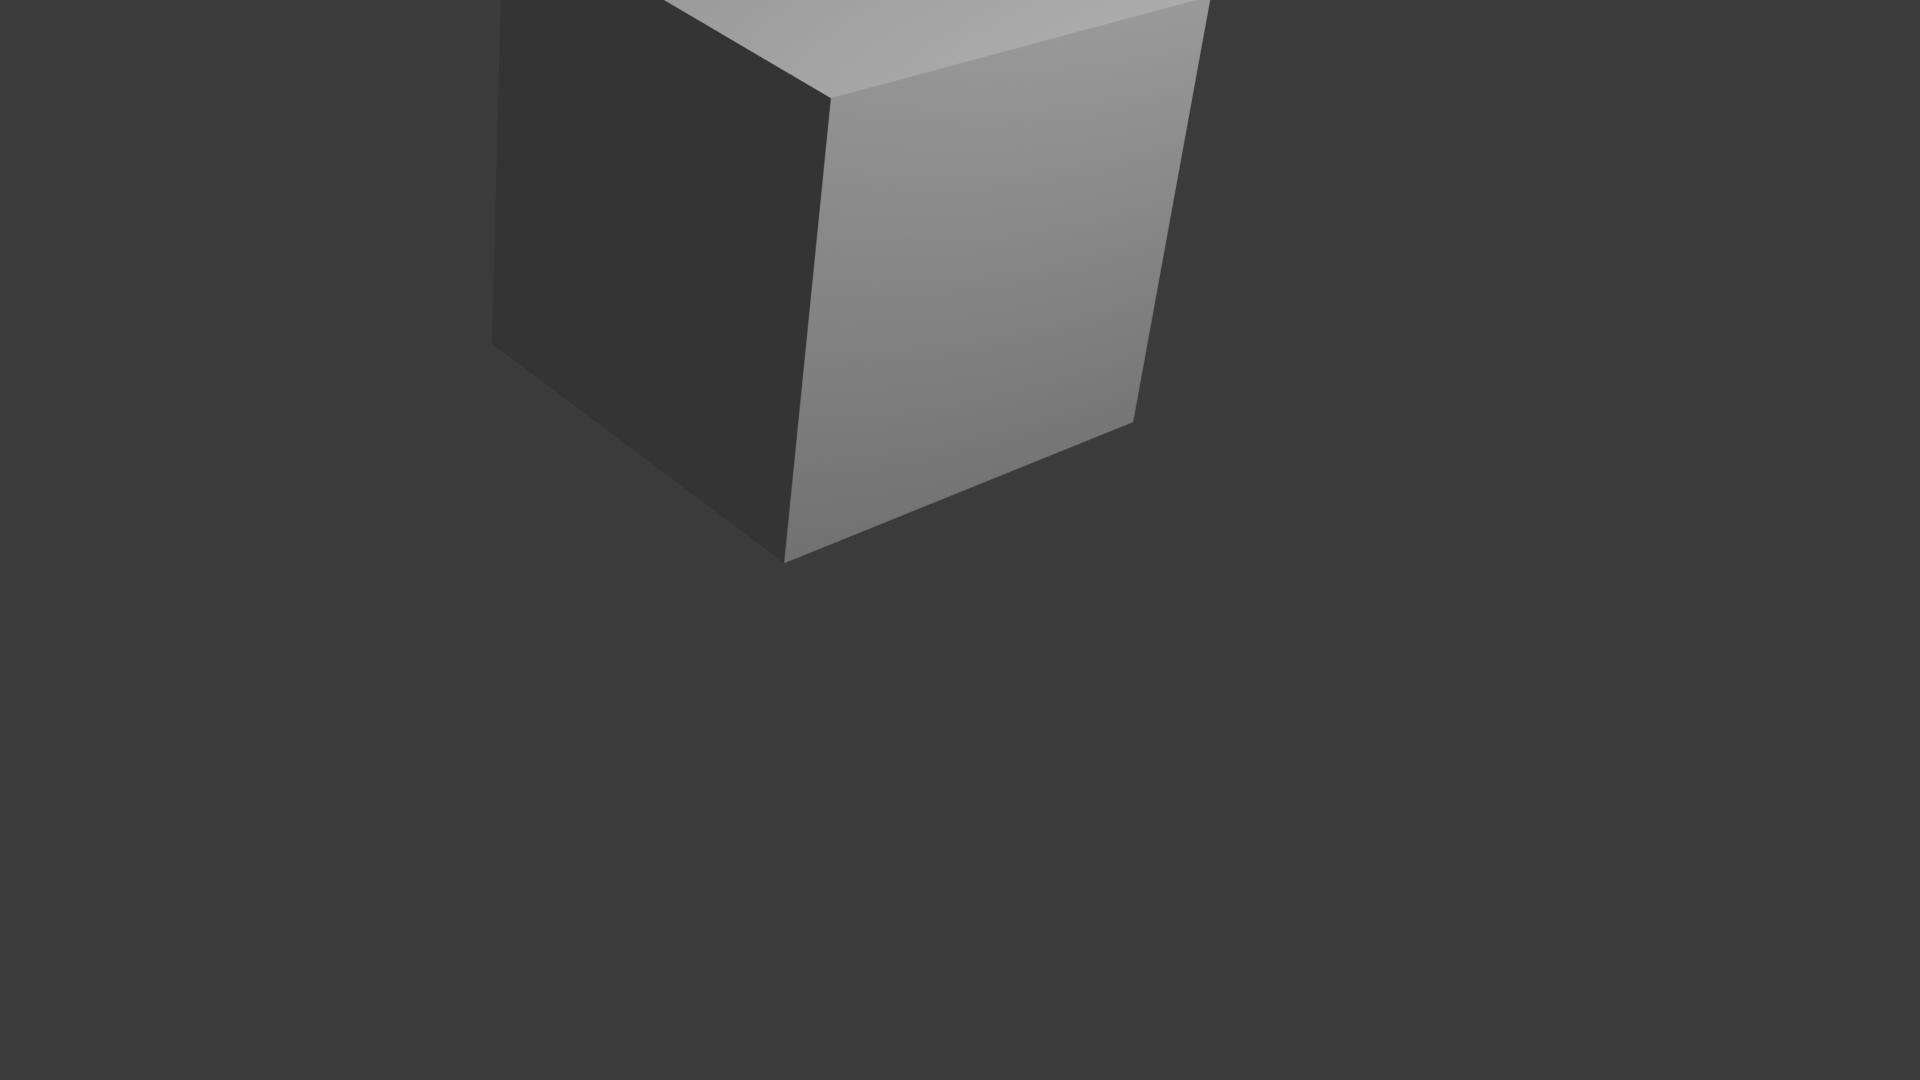
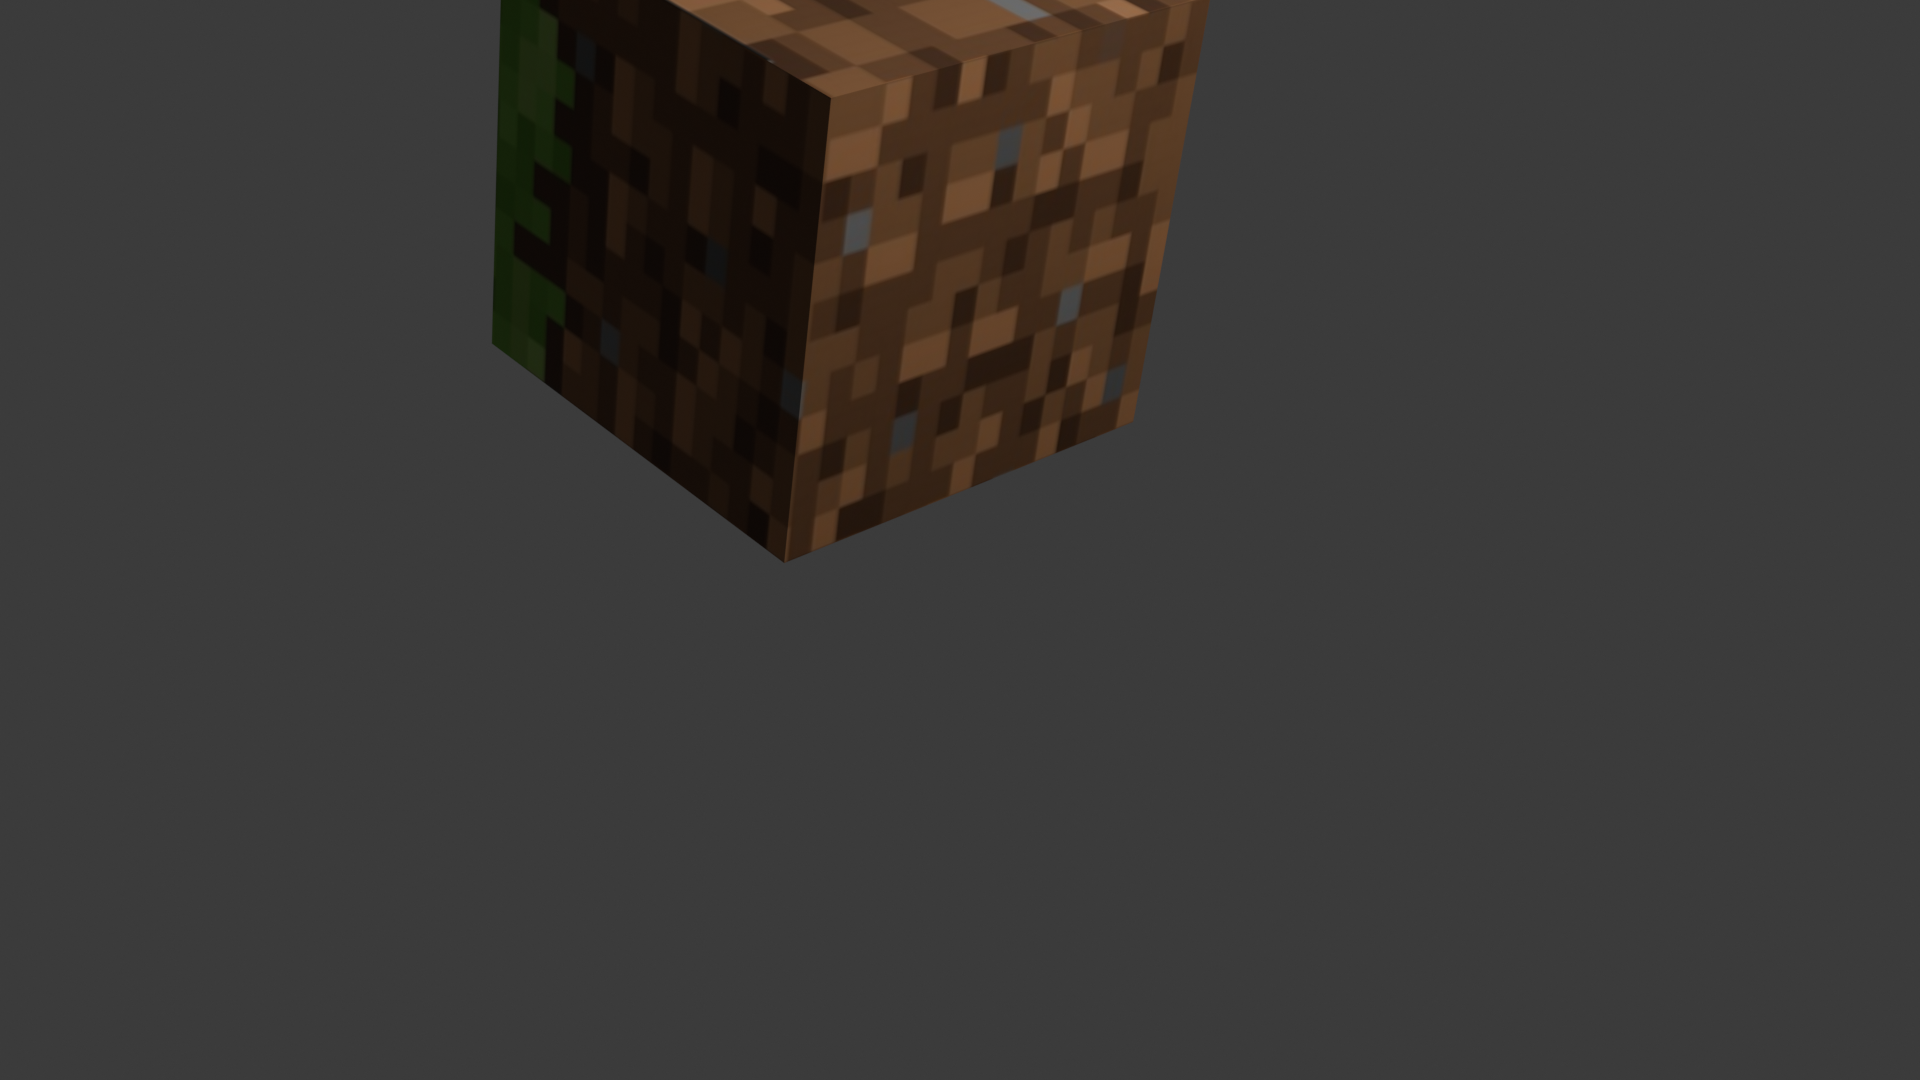
crate object and texture scripts

Changed region(s): [[0.25, 0.0, 0.6562, 0.5194]]

diff --git a/03_create_material_texture.py b/03_create_material_texture.py
@@ -1,0 +1,57 @@
+import os
+import bpy
+import config 
+
+
+sep_len = 20 
+print("-" * sep_len + "Creo Texture e Assegno a Cubo" + "-" * sep_len) ### ignore this, just for formatting prints
+
+# Aggiunta di un cubo
+
+cubemesh = bpy.data.objects.get("Cube") ### prendo cubo esistente nella scena
+
+print(cubemesh.name)
+
+## CHANGE WORKING DIR 
+
+curr_dir = "C:/Users/Chiqu/Desktop/BLENDER SCRIPTING/Blender-Python-Tutorial/"
+
+image_path = curr_dir + "images/minecraft.png"
+
+# Crea un nuovo materiale
+material_name = "MaterialeConTexture"
+material = bpy.data.materials.new(name=material_name)
+material.use_nodes = True
+
+# Ottieni i nodi del materiale
+nodes = material.node_tree.nodes
+links = material.node_tree.links
+
+# Rimuovi i nodi esistenti
+nodes.clear()
+
+# Crea i nodi necessari
+output_node = nodes.new(type='ShaderNodeOutputMaterial')
+bsdf_node = nodes.new(type='ShaderNodeBsdfPrincipled')
+texture_node = nodes.new(type='ShaderNodeTexImage')
+
+# Posiziona i nodi (opzionale, solo per organizzazione visiva)
+output_node.location = (800, 0)
+bsdf_node.location = (400, 0)
+texture_node.location = (0, 0)
+
+# Carica l'immagine e assegnala al nodo di texture
+image = bpy.data.images.load(image_path)
+texture_node.image = image
+
+# Collega i nodi
+links.new(texture_node.outputs['Color'], bsdf_node.inputs['Base Color'])
+links.new(bsdf_node.outputs['BSDF'], output_node.inputs['Surface'])
+
+# Assegna il materiale all'oggetto
+if cubemesh.data.materials:
+    # Sostituisci il primo materiale
+    cubemesh.data.materials[0] = material
+else:
+    # Aggiungi il materiale
+    cubemesh.data.materials.append(material)

diff --git a/04_render_camera_manipulation.py b/04_render_camera_manipulation.py
@@ -7,8 +7,9 @@ sep_len = 20
 print("-" * sep_len + "Render Image" + "-" * sep_len) ### ignore this, just for formatting prints
 
 ## SAVE IMAGE RENDER
-home_path = "C:/Users/Chiqu/Desktop/BLENDER SCRIPTING/Blender-Python-Tutorial/"
-bpy.context.scene.render.filepath = home_path + "screenshot.png"
+curr_dir = "C:/Users/Chiqu/Desktop/BLENDER SCRIPTING/Blender-Python-Tutorial/"
+
+bpy.context.scene.render.filepath = curr_dir + "screenshot.png"
 bpy.ops.render.render(write_still=True)
 
 
@@ -35,7 +36,7 @@ if camera:
 else:
     print("Camera non trovata.")
 
-bpy.context.scene.render.filepath = home_path + "screenshot_camera_render_changepose.png"
+bpy.context.scene.render.filepath = curr_dir + "screenshot_camera_render_changepose.png"
 bpy.ops.render.render(write_still=True)
 print(matrix_pose)
 
@@ -60,7 +61,7 @@ if camera:
 else:
     print("Camera non trovata.")
 
-bpy.context.scene.render.filepath = home_path + "screenshot_camera_rotation.png"
+bpy.context.scene.render.filepath = curr_dir + "screenshot_camera_rotation.png"
 bpy.ops.render.render(write_still=True)
 print(matrix_pose)
 
@@ -84,7 +85,7 @@ if camera:
 else:
     print("Camera non trovata.")
 
-bpy.context.scene.render.filepath = home_path + "screenshot_camera_rotation_rotate.png"
+bpy.context.scene.render.filepath = curr_dir + "screenshot_camera_rotation_rotate.png"
 bpy.ops.render.render(write_still=True)
 print(matrix_pose)
 

diff --git a/02_create_object.py b/02_create_object.py
@@ -5,11 +5,12 @@ print("-" * sep_len + "Creo Cubo" + "-" * sep_len) ### ignore this, just for for
 
 # Aggiunta di un cubo
 
-bpy.ops.mesh.primitive_cube_add(size=2, location=(0, 0, 0))
+cubemesh = bpy.ops.mesh.primitive_cube_add(size=2, location=(0, 0, 0))
 
-# Rendering dell'immagine corrente
+# Retrieve the newly created cube --> oggetto creato è per forza attivo a meno di altri script che tolgano il focus
+cubemesh = bpy.context.active_object
 
-## SAVE IMAGE RENDER
-home_path = "C:/Users/Chiqu/Desktop/BLENDER SCRIPTING/Blender-Python-Tutorial/"
-bpy.context.scene.render.filepath = home_path + "screenshot.png"
-bpy.ops.render.render(write_still=True)
+# Optionally, rename the cube
+cubemesh.name = "MyCube"
+
+print(cubemesh.name)

diff --git a/config.py b/config.py
@@ -1,0 +1,1 @@
+WORKING_DIR = "C:/Users/Chiqu/Desktop/BLENDER SCRIPTING/Blender-Python-Tutorial/""
